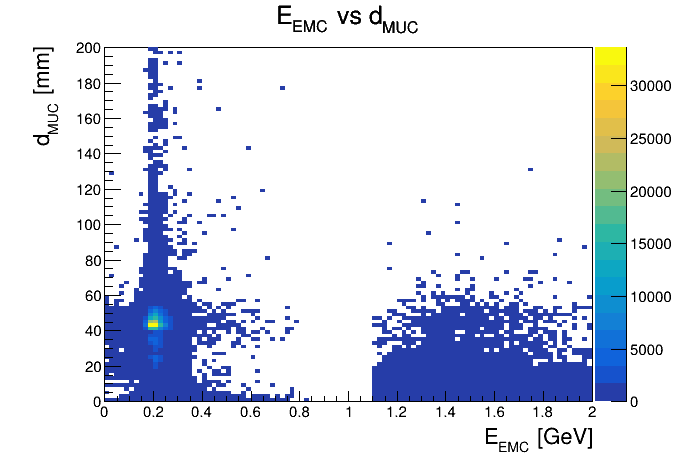
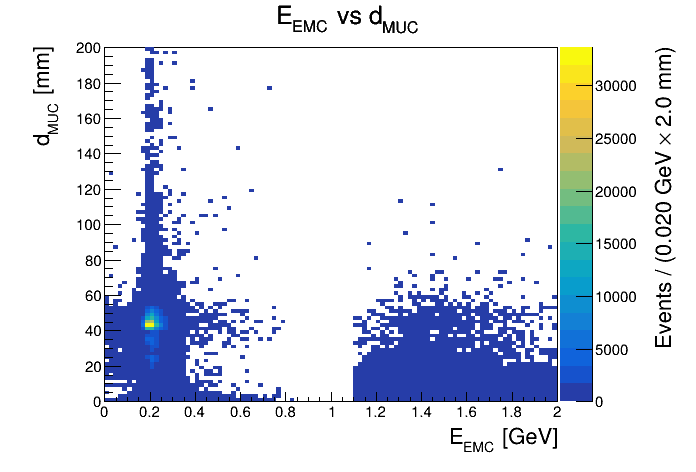
added bin size to E_EMC vs d_MUC plot

diff --git a/part1_PID/ZcAnalysis.C b/part1_PID/ZcAnalysis.C
@@ -28,12 +28,12 @@ using ROOT::Math::VectorUtil::CosTheta; // angle between two four-vectors
 
 // decide which graphs should be plotted
 bool task_2_1 = false;
-bool task_2_2 = false;
+bool task_2_2 = true;
 bool task_2_3 = false;
 bool task_3_1_and_3_2 = false;
 bool task_3_3 = false;
-bool task_3_5 = true;
-bool task_3_6 = true;
+bool task_3_5 = false;
+bool task_3_6 = false;
 
 void ZcAnalysis::Loop(TString savePath)
 {
@@ -349,27 +349,31 @@ void ZcAnalysis::Loop(TString savePath)
     // TASK 2.2:
     if (task_2_2) {
         {
-        TCanvas* canvas = new TCanvas();
-        h2_eEMC->SetLineWidth(2);
-        gPad->SetLeftMargin(0.15);
-        gPad->SetBottomMargin(0.15);
-        h2_eEMC->GetYaxis()->SetTitleSize(0.05);
-        h2_eEMC->GetXaxis()->SetTitleSize(0.05);
-        double binWidth =  h1_pTracks->GetBinWidth(1);
-        h2_eEMC->GetYaxis()->SetTitle(Form("Events / %.3f GeV", binWidth));
-        h2_eEMC->Draw();
-        canvas->SaveAs(savePath + "2_EEMC_leptons.png");
-        }
-        {
-        TCanvas* canvas = new TCanvas();
-        h3_eEMC_vs_MUC->SetLineWidth(2);
-        gPad->SetLeftMargin(0.15);
-        gPad->SetRightMargin(0.15);
-        gPad->SetBottomMargin(0.15);
-        h3_eEMC_vs_MUC->GetYaxis()->SetTitleSize(0.05);
-        h3_eEMC_vs_MUC->GetXaxis()->SetTitleSize(0.05);
-        h3_eEMC_vs_MUC->Draw("COLZ");
-        canvas->SaveAs(savePath + "3_EEMC_vs_MUC.png");
+            TCanvas* canvas = new TCanvas();
+            h3_eEMC_vs_MUC->SetLineWidth(2);
+            
+            // Increase right margin to ensure the Z-axis title isn't cut off
+            gPad->SetLeftMargin(0.15);
+            gPad->SetRightMargin(0.20); 
+            gPad->SetBottomMargin(0.15);
+
+            h3_eEMC_vs_MUC->GetYaxis()->SetTitleSize(0.05);
+            h3_eEMC_vs_MUC->GetXaxis()->SetTitleSize(0.05);
+
+            // 1. Calculate bin widths for both axes
+            double dx = h3_eEMC_vs_MUC->GetXaxis()->GetBinWidth(1);
+            double dy = h3_eEMC_vs_MUC->GetYaxis()->GetBinWidth(1);
+
+            // 2. Set the Z-axis title
+            // Using #times for a mathematical 'x' symbol in ROOT LaTeX
+            h3_eEMC_vs_MUC->GetZaxis()->SetTitle(Form("Events / (%.3f GeV #times %.1f mm)", dx, dy));
+            h3_eEMC_vs_MUC->GetZaxis()->SetTitleSize(0.05);
+            
+            // 3. Adjust the offset so the title doesn't overlap the axis numbers
+            h3_eEMC_vs_MUC->GetZaxis()->SetTitleOffset(1.3); 
+
+            h3_eEMC_vs_MUC->Draw("COLZ");
+            canvas->SaveAs(savePath + "3_EEMC_vs_MUC.png");
         }
     }
 
